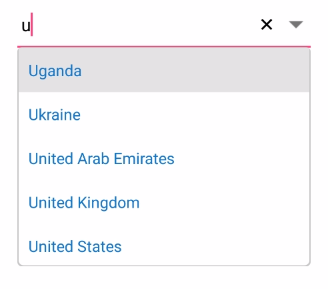
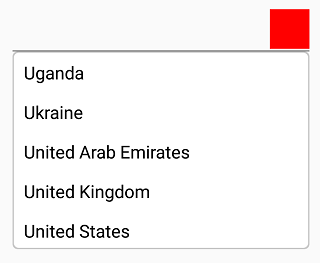
XAMARIN-25999 Revamp the UG documentation explaining the details on how to add view inside DropDownButtonSettings

Changed region(s): [[0.0312, 0.0304, 0.9688, 0.9734], [0.0625, 0.0304, 0.125, 0.1217]]

diff --git a/Xamarin/SfComboBox/Customizing-ComboBox.md b/Xamarin/SfComboBox/Customizing-ComboBox.md
@@ -770,6 +770,77 @@ This section explains various DropDown button settings available in SfComboBox c
 
 ![Customizing dropdown](images/Customizing-ComboBox/customizing-dropdown.png)
 
+
+## View for drop down button
+
+This section explains how to provide view to the drop down button.
+
+{% tabs %}
+
+{% highlight xaml %}
+
+	<StackLayout VerticalOptions="Start" HorizontalOptions="Start" Padding="30">
+		<comboBox:SfComboBox HeightRequest="40" x:Name="comboBox">
+			<comboBox:SfComboBox.ComboBoxSource>
+				<ListCollection:List x:TypeArguments="x:String">
+					<x:String>Uganda</x:String>
+					<x:String>Ukraine</x:String>
+					<x:String>United Arab Emirates</x:String>
+					<x:String>United Kingdom</x:String>
+					<x:String>United States</x:String>
+				</ListCollection:List>
+			</comboBox:SfComboBox.ComboBoxSource>
+			<comboBox:SfComboBox.DropDownButtonSettings>
+				<comboBox:DropDownButtonSettings Width="40" Height="40">
+					<comboBox:DropDownButtonSettings.View>
+						<Label WidthRequest="30" Text="Click" HorizontalTextAlignment="Center" VerticalTextAlignment="Center"/>
+					</comboBox:DropDownButtonSettings.View>
+				</comboBox:DropDownButtonSettings>
+			</comboBox:SfComboBox.DropDownButtonSettings>
+		</comboBox:SfComboBox>
+	</StackLayout>
+
+{% endhighlight %}
+
+{% highlight c# %}
+
+            StackLayout layout = new StackLayout()
+			{
+				VerticalOptions = LayoutOptions.Start,
+				HorizontalOptions = LayoutOptions.Start,
+				Padding = new Thickness(30)
+			};
+
+			List<String> countryNames = new List<String>();
+			countryNames.Add("Uganda");
+			countryNames.Add("Ukraine");
+			countryNames.Add("United Arab Emirates");
+			countryNames.Add("United Kingdom");
+			countryNames.Add("United States");
+
+			SfComboBox comboBox = new SfComboBox();
+			comboBox.DataSource = countryNames;
+			DropDownButtonSettings dropDownButtonSettings = new DropDownButtonSettings();
+			dropDownButtonSettings.Height = 40;
+			dropDownButtonSettings.Width = 40;
+			Label label = new Label();
+			label.Text = "Click";
+			label.VerticalTextAlignment = TextAlignment.Center;
+			label.HorizontalTextAlignment = TextAlignment.Center;
+			label.WidthRequest = 30;
+			dropDownButtonSettings.View = label;
+		       comboBox.DropDownButtonSettings = dropDownButtonSettings;
+			layout.Children.Add(comboBox);
+			Content = layout;
+
+{% endhighlight %}
+
+{% endtabs %}
+
+
+![Customizing dropdown view](images/Customizing-ComboBox/customizing-dropdown-view.png)
+
+
 ## Watermark
 
 Watermark provides a short note about the type of input to enter in the editor control. Watermarks are visible only if the text is empty. It will reappear if the text is cleared. The following example, explains the usability of watermark that hints users to start with the character “U”.
